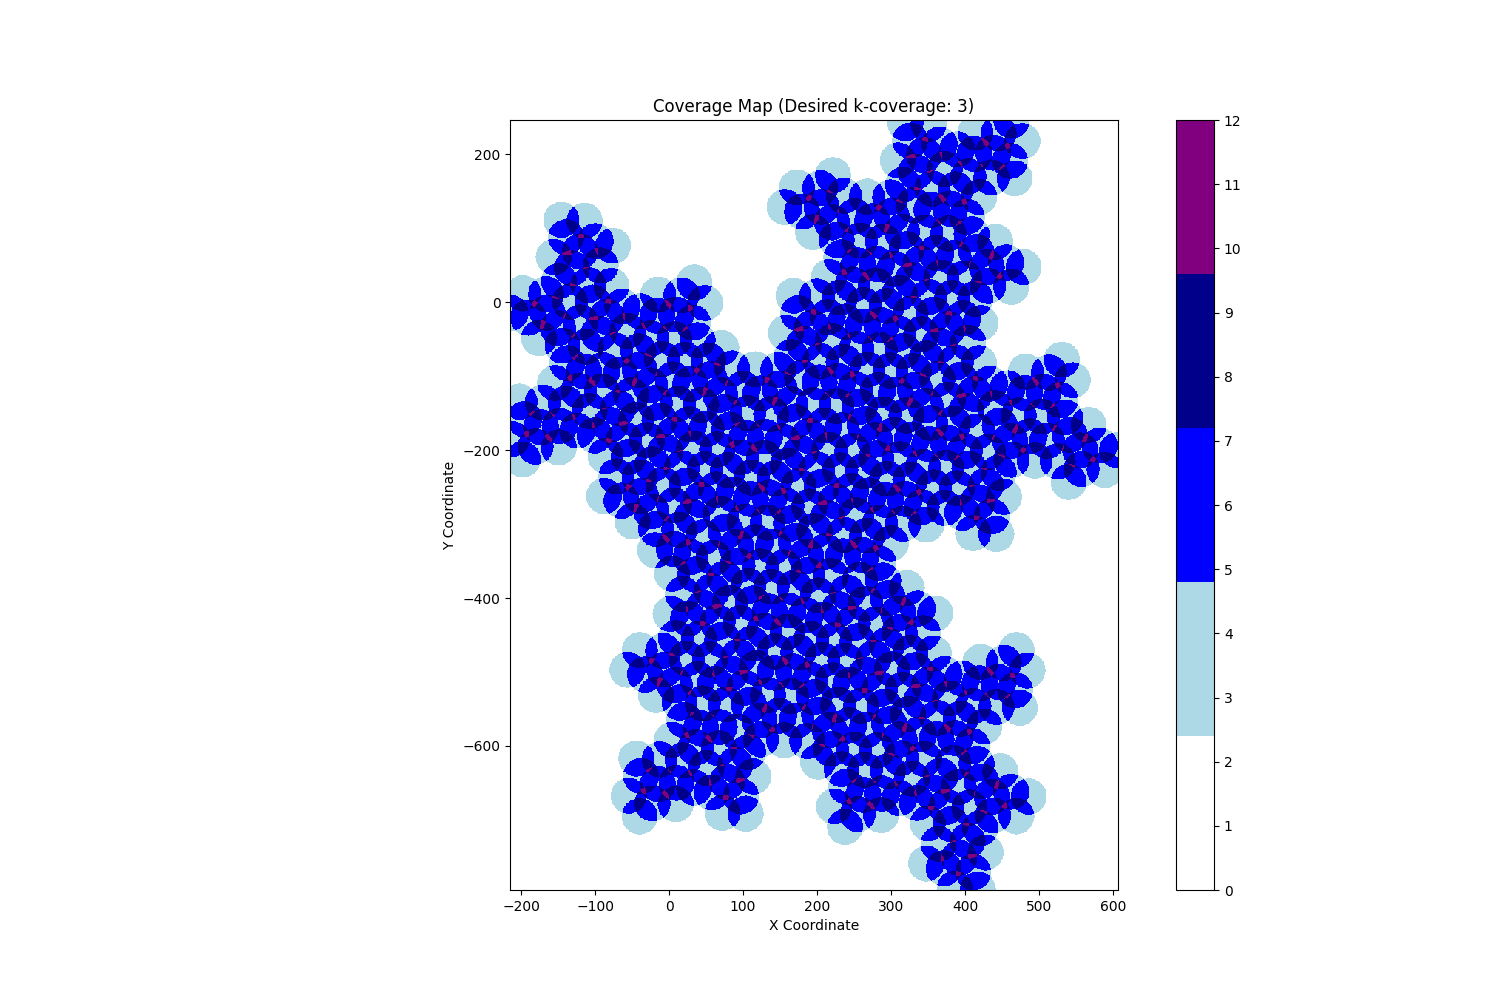
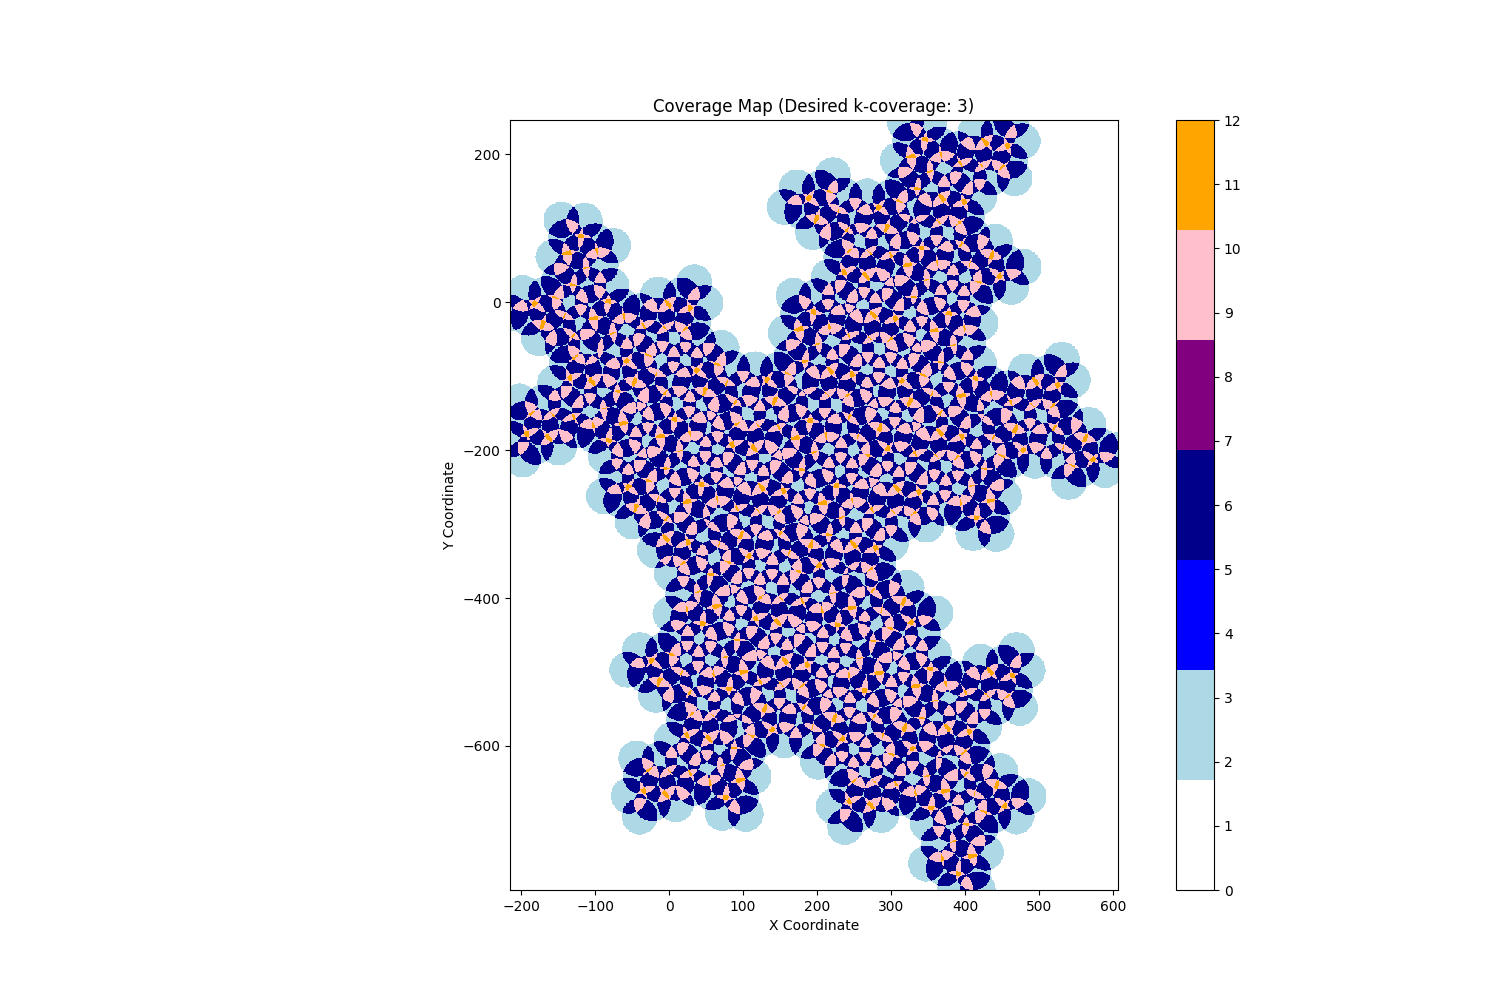
lots of testing

Changed region(s): [[0.3373, 0.124, 0.828, 0.899], [0.7667, 0.713, 0.828, 0.775]]

diff --git a/generate_k_coverage.py b/generate_k_coverage.py
@@ -6,8 +6,7 @@ from spectre import buildSpectreBase, transPt, buildSupertiles, SPECTRE_POINTS, 
 
 # Parameters
 GRID_RESOLUTION = 1  # Resolution of the coverage grid
-ENERGY_CONSUMPTION_RATE = 1  # Example value for energy consumption per sensor
-K_COVERAGE = 2  # Desired k-coverage level
+K_COVERAGE = 3  # Desired k-coverage level
 
 def generate_hierarchical_spectre_tiles(k_coverage, n_iterations):
     tiles_layers = []
@@ -77,8 +76,8 @@ def calculate_hierarchical_coverage(sensor_positions_layers, sensor_radius, grid
 
 def plot_coverage_map(x_coords, y_coords, coverage_map):
     fig, ax = plt.subplots(figsize=(15, 10))
-    cmap = ListedColormap(['white', 'lightblue', 'blue', 'darkblue', 'purple'])
-    c = ax.pcolormesh(x_coords, y_coords, coverage_map, shading='auto', cmap=cmap)
+    cmap = ListedColormap(['white', 'lightblue', 'blue', 'darkblue', 'purple', 'pink', 'orange'])
+    c = ax.pcolormesh(x_coords, y_coords, coverage_map, shading='auto', cmap=cmap, vmin=0, vmax=np.max(coverage_map))
     fig.colorbar(c, ax=ax, ticks=np.arange(0, np.max(coverage_map) + 1, 1))
     ax.set_aspect('equal', adjustable='box')
     plt.title(f'Coverage Map (Desired k-coverage: {K_COVERAGE})')
@@ -113,7 +112,7 @@ def plot_hierarchical_spectre_tiles_with_sensors(tiles_layers, sensor_positions_
         plot_width, plot_height = x_max - x_min + 20, y_max - y_min + 20
 
         ax.set_xlim(x_center - plot_width / 2, x_center + plot_width / 2)
-        ax.set_ylim(y_center - plot_height / 2, y_center + plot_width / 2)
+        ax.set_ylim(y_center - plot_height / 2, y_center + plot_height / 2)
 
     ax.set_aspect('equal', adjustable='box')
     plt.grid(True)
@@ -121,17 +120,26 @@ def plot_hierarchical_spectre_tiles_with_sensors(tiles_layers, sensor_positions_
     plt.savefig(f"hierarchical_spectre_tiling_{K_COVERAGE}_coverage.png")
     plt.show()
 
-def calculate_metrics(sensor_positions, coverage_map):
+def calculate_covered_area(tiles_layers):
+    total_area = 0.0
+    for tiles in tiles_layers:
+        for tile in tiles.values():
+            tile_points = [transPt(np.eye(3), pt) for pt in SPECTRE_POINTS]
+            polygon = mplPolygon(tile_points)
+            total_area += polygon.get_path().get_extents().area
+    return total_area
+
+def calculate_metrics(sensor_positions, coverage_map, total_covered_area):
     total_area = np.sum(coverage_map > 0)  # Total covered area (non-zero cells)
     k_covered_area = np.sum(coverage_map >= K_COVERAGE)  # Area covered by at least k sensors
     
-    sensor_density = len(sensor_positions) / total_area
-    coverage_ratio = total_area / coverage_map.size
+    sensor_density = len(sensor_positions) / total_covered_area
+    coverage_ratio = total_covered_area / total_area
     k_coverage_ratio = k_covered_area / total_area
     
     return sensor_density, coverage_ratio, k_coverage_ratio
 
-def main(k_coverage=2, n_iterations=3):
+def main(k_coverage=3, n_iterations=3):
     print(f"Generating hierarchical Spectre tiles for {k_coverage}-coverage with {n_iterations} iterations")
     
     # Generate hierarchical spectre tiles and sensor positions
@@ -152,9 +160,12 @@ def main(k_coverage=2, n_iterations=3):
     # Plot the hierarchical spectre tiles with sensor nodes
     plot_hierarchical_spectre_tiles_with_sensors(tiles_layers, sensor_positions_layers, SENSOR_RADIUS)
 
+    # Calculate the total covered area using the actual shape of tiles
+    total_covered_area = calculate_covered_area(tiles_layers)
+
     # Calculate metrics
     all_sensors = np.vstack(sensor_positions_layers)
-    sensor_density, coverage_ratio, k_coverage_ratio = calculate_metrics(all_sensors, coverage_map)
+    sensor_density, coverage_ratio, k_coverage_ratio = calculate_metrics(all_sensors, coverage_map, total_covered_area)
 
     # Print metrics
     print(f"Desired k-coverage: {k_coverage}")
@@ -166,4 +177,4 @@ def main(k_coverage=2, n_iterations=3):
     print(f"Sensors per layer: {[len(layer) for layer in sensor_positions_layers]}")
 
 if __name__ == "__main__":
-    main(k_coverage=2, n_iterations=3)  # You can change these parameters as needed
+    main(k_coverage=3, n_iterations=3)  # You can change these parameters as needed
